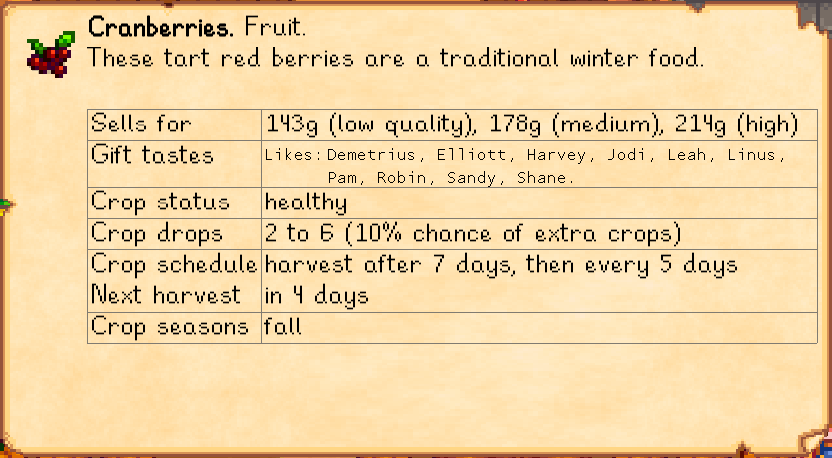
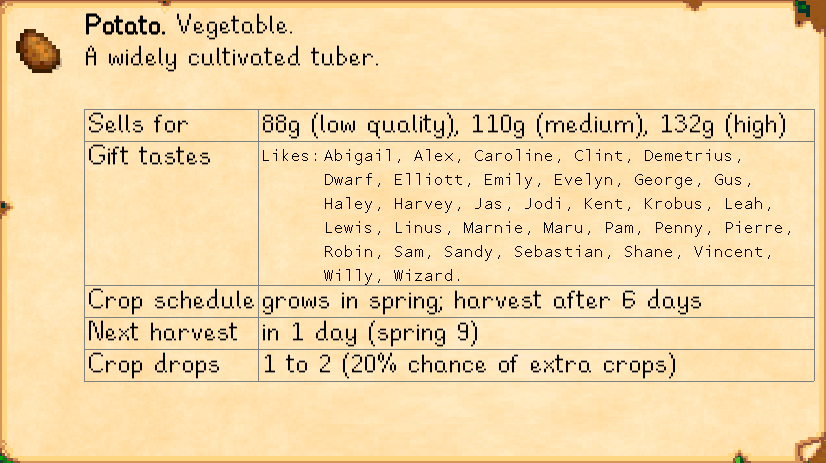
show date of maturity for growing crops, trees, or animals

Changed region(s): [[0.0, 0.0, 1.0, 1.0]]

diff --git a/LookupAnything/Framework/Subjects/CropSubject.cs b/LookupAnything/Framework/Subjects/CropSubject.cs
@@ -30,6 +30,7 @@ namespace Pathoschild.LookupAnything.Framework.Subjects
 
             // calculate next harvest
             int daysToNextHarvest = 0;
+            Tuple<string, int> dayOfNextHarvest = null;
             if (!canHarvestNow)
             {
                 int daysUntilLastPhase = daysToFirstHarvest - crop.phaseDays
@@ -38,14 +39,17 @@ namespace Pathoschild.LookupAnything.Framework.Subjects
                 daysToNextHarvest = daysUntilLastPhase;
                 if (daysToNextHarvest == 0 && crop.fullyGrown && canRegrow)
                     daysToNextHarvest = crop.regrowAfterHarvest; // after harvesting a regrowable crop, day of current phase is set to 0 until the next day
+                dayOfNextHarvest = GameHelper.GetDayOffset(daysToNextHarvest);
             }
             
             // generate next-harvest summary
             string nextHarvestSummary;
             if (canHarvestNow)
                 nextHarvestSummary = "now";
+            else if(!crop.seasonsToGrowIn.Contains(dayOfNextHarvest.Item1))
+                nextHarvestSummary = $"too late in the season for the next harvest (would be on {dayOfNextHarvest.Item1} {dayOfNextHarvest.Item2})";
             else
-                nextHarvestSummary = $"in {daysToNextHarvest} days";
+                nextHarvestSummary = $"in {daysToNextHarvest} {GameHelper.Pluralise(daysToNextHarvest, "day")} ({dayOfNextHarvest.Item1} {dayOfNextHarvest.Item2})";
 
             // add fields
             if (crop.dead)
@@ -53,7 +57,7 @@ namespace Pathoschild.LookupAnything.Framework.Subjects
             else
             {
                 this.AddCustomFields(
-                    new GenericField("Crop schedule", $"grows in {string.Join(", ", crop.seasonsToGrowIn)}; harvest after {daysToFirstHarvest} days" + (crop.regrowAfterHarvest != -1 ? $", then every {crop.regrowAfterHarvest} days" : "")),
+                    new GenericField("Crop schedule", $"grows in {string.Join(", ", crop.seasonsToGrowIn)}; harvest after {daysToFirstHarvest} {GameHelper.Pluralise(daysToFirstHarvest, "day")}" + (crop.regrowAfterHarvest != -1 ? $", then every {crop.regrowAfterHarvest} {GameHelper.Pluralise(crop.regrowAfterHarvest, "day")}" : "")),
                     new GenericField("Next harvest", nextHarvestSummary, hasValue: !crop.dead),
                     new GenericField("Crop drops", crop.minHarvest != crop.maxHarvest && crop.chanceForExtraCrops > 0
                         ? $"{crop.minHarvest} to {crop.maxHarvest} ({Math.Round(crop.chanceForExtraCrops * 100, 2)}% chance of extra crops)"

diff --git a/LookupAnything/GameHelper.cs b/LookupAnything/GameHelper.cs
@@ -32,6 +32,29 @@ namespace Pathoschild.LookupAnything
             GameHelper.GiftableVillagers = new Lazy<NPC[]>(GameHelper.FetchGiftableVillagers);
         }
 
+        /// <summary>Add a day offset to the current date.</summary>
+        /// <param name="offset">The offset to add in days.</param>
+        /// <returns>Returns the resulting season and day.</returns>
+        public static Tuple<string, int> GetDayOffset(int offset)
+        {
+            // simple case
+            string season = Game1.currentSeason;
+            int day = Game1.dayOfMonth + offset;
+
+            // handle season transition
+            if (day > Constant.DaysInSeason)
+            {
+                string[] seasons = { SeasonName.Spring, SeasonName.Summer, SeasonName.Fall, SeasonName.Winter };
+                int curSeasonIndex = Array.IndexOf(seasons, Game1.currentSeason);
+                if (curSeasonIndex == -1)
+                    throw new InvalidOperationException($"The current season '{Game1.currentSeason}' wasn't recognised.");
+                season = seasons[curSeasonIndex + (day / Constant.DaysInSeason) % seasons.Length];
+                day = day % Constant.DaysInSeason;
+            }
+
+            return Tuple.Create(season, day);
+        }
+
         /// <summary>Get how much each NPC likes receiving an item as a gift.</summary>
         /// <param name="item">The item to check.</param>
         public static IDictionary<NPC, GiftTaste> GetGiftTastes(Item item)
@@ -144,7 +167,7 @@ namespace Pathoschild.LookupAnything
             // validate
             if (field == null)
             {
-                if(required)
+                if (required)
                     throw new InvalidOperationException($"The {parent.GetType().Name} object doesn't have a private '{name}' field.");
                 return default(T);
             }
@@ -157,9 +180,9 @@ namespace Pathoschild.LookupAnything
         /// <param name="count">The number.</param>
         /// <param name="single">The singular form.</param>
         /// <param name="plural">The plural form.</param>
-        public static string Pluralise(int count, string single, string plural)
+        public static string Pluralise(int count, string single, string plural = null)
         {
-            return count == 1 ? single : plural;
+            return count == 1 ? single : (plural ?? single + "s");
         }
 
 

diff --git a/LookupAnything/Framework/Subjects/FarmAnimalSubject.cs b/LookupAnything/Framework/Subjects/FarmAnimalSubject.cs
@@ -30,17 +30,28 @@ namespace Pathoschild.LookupAnything.Framework.Subjects
             this.Target = target;
             FarmAnimal animal = target.Value;
 
+            // calculate maturity
             bool isFullyGrown = animal.age >= animal.ageWhenMature;
+            int daysUntilGrown = 0;
+            Tuple<string, int> dayOfMaturity = null;
+            if (!isFullyGrown)
+            {
+                daysUntilGrown = animal.ageWhenMature - animal.age;
+                dayOfMaturity = GameHelper.GetDayOffset(daysUntilGrown);
+            }
+
+            // add fields
             this.AddCustomFields(
-                new CharacterFriendshipField("Friendship", animal.friendshipTowardFarmer, Constant.AnimalFriendshipPointsPerLevel, Constant.AnimalFriendshipMaxPoints),
+                new CharacterFriendshipField("Love", animal.friendshipTowardFarmer, Constant.AnimalFriendshipPointsPerLevel, Constant.AnimalFriendshipMaxPoints),
                 new PercentageBarField("Happiness", animal.happiness, byte.MaxValue, Color.Green, Color.Gray, $"{Math.Round(animal.happiness / (byte.MaxValue * 1f) * 100)}%"),
                 new GenericField("Mood today", animal.getMoodMessage()),
                 new GenericField("Complaints", this.GetMoodReason(animal)),
                 new GenericField("Produce ready", animal.currentProduce > 0 ? new StardewValley.Object(animal.currentProduce, 1).name : null),
-                new GenericField("Petted today", animal.wasPet),
-                new GenericField("Adult in", $"{animal.ageWhenMature - animal.age} days", hasValue: !isFullyGrown),
-                new SaleValueField("Sells for", animal.getSellPrice(), 1)
+                new GenericField("Petted today", animal.wasPet)
             );
+            if (!isFullyGrown)
+                this.AddCustomFields(new GenericField("Adult in", $"{daysUntilGrown} {GameHelper.Pluralise(daysUntilGrown, "day")} (on {dayOfMaturity.Item1} {dayOfMaturity.Item2})"));
+            this.AddCustomFields(new SaleValueField("Sells for", animal.getSellPrice(), 1));
         }
 
         /// <summary>Draw the subject portrait (if available).</summary>

diff --git a/LookupAnything/Framework/Fields/GenericField.cs b/LookupAnything/Framework/Fields/GenericField.cs
@@ -64,11 +64,11 @@ namespace Pathoschild.LookupAnything.Framework.Fields
                 TimeSpan span = (TimeSpan)value;
                 List<string> parts = new List<string>();
                 if (span.Days > 0)
-                    parts.Add($"{span.Days} {GameHelper.Pluralise(span.Days, "day", "days")}");
+                    parts.Add($"{span.Days} {GameHelper.Pluralise(span.Days, "day")}");
                 if (span.Hours > 0)
-                    parts.Add($"{span.Hours} {GameHelper.Pluralise(span.Hours, "hour", "hours")}");
+                    parts.Add($"{span.Hours} {GameHelper.Pluralise(span.Hours, "hour")}");
                 if (span.Minutes > 0)
-                    parts.Add($"{span.Minutes} {GameHelper.Pluralise(span.Minutes, "minute", "minutes")}");
+                    parts.Add($"{span.Minutes} {GameHelper.Pluralise(span.Minutes, "minute")}");
                 return string.Join(", ", parts);
             }
 

diff --git a/LookupAnything/Framework/Subjects/FruitTreeSubject.cs b/LookupAnything/Framework/Subjects/FruitTreeSubject.cs
@@ -40,7 +40,8 @@ namespace Pathoschild.LookupAnything.Framework.Subjects
             // show growth countdown
             if (!isMature)
             {
-                string growthText = $"mature in {tree.daysUntilMature} days";
+                System.Tuple<string, int> dayOfMaturity = GameHelper.GetDayOffset(tree.daysUntilMature);
+                string growthText = $"mature in {tree.daysUntilMature} {GameHelper.Pluralise(tree.daysUntilMature, "day")} ({dayOfMaturity.Item1} {dayOfMaturity.Item2})";
                 if (this.HasAdjacentObjects(target.GetTile()))
                     growthText += " (can't grow because there are adjacent objects)";
                 this.AddCustomFields(new GenericField("Growth", growthText));

diff --git a/LookupAnything/Framework/Constants/SeasonName.cs b/LookupAnything/Framework/Constants/SeasonName.cs
@@ -1,0 +1,18 @@
+namespace Pathoschild.LookupAnything.Framework.Constants
+{
+    /// <summary>The internal season names.</summary>
+    public static class SeasonName
+    {
+        /// <summary>The internal name for Spring.</summary>
+        public const string Spring = "spring";
+
+        /// <summary>The internal name for Summer.</summary>
+        public const string Summer = "summer";
+
+        /// <summary>The internal name for Fall.</summary>
+        public const string Fall = "fall";
+
+        /// <summary>The internal name for Winter.</summary>
+        public const string Winter = "winter";
+    }
+}

diff --git a/LookupAnything/Framework/Constants/Constant.cs b/LookupAnything/Framework/Constants/Constant.cs
@@ -8,5 +8,8 @@
 
         /// <summary>The maximum number of friendship points for a farm animal.</summary>
         public static int AnimalFriendshipMaxPoints = 5 * Constant.AnimalFriendshipPointsPerLevel;
+
+        /// <summary>The number of days in each season.</summary>
+        public static int DaysInSeason = 28;
     }
 }
